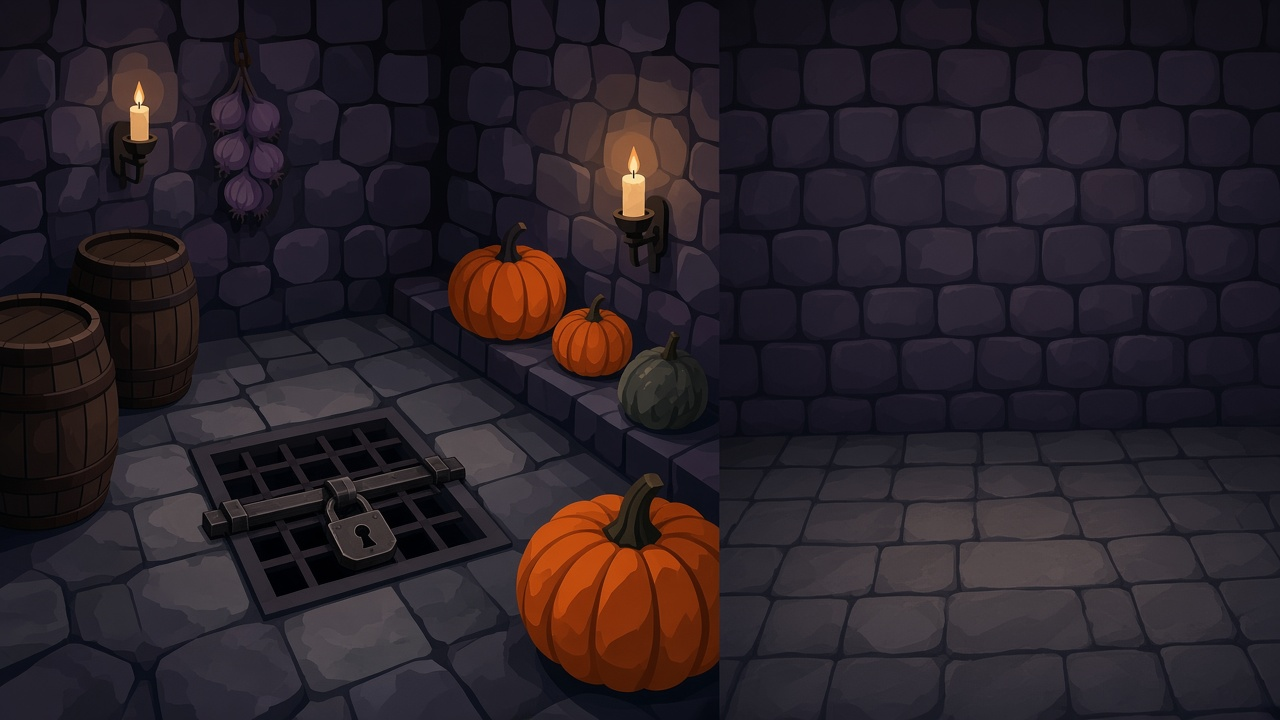
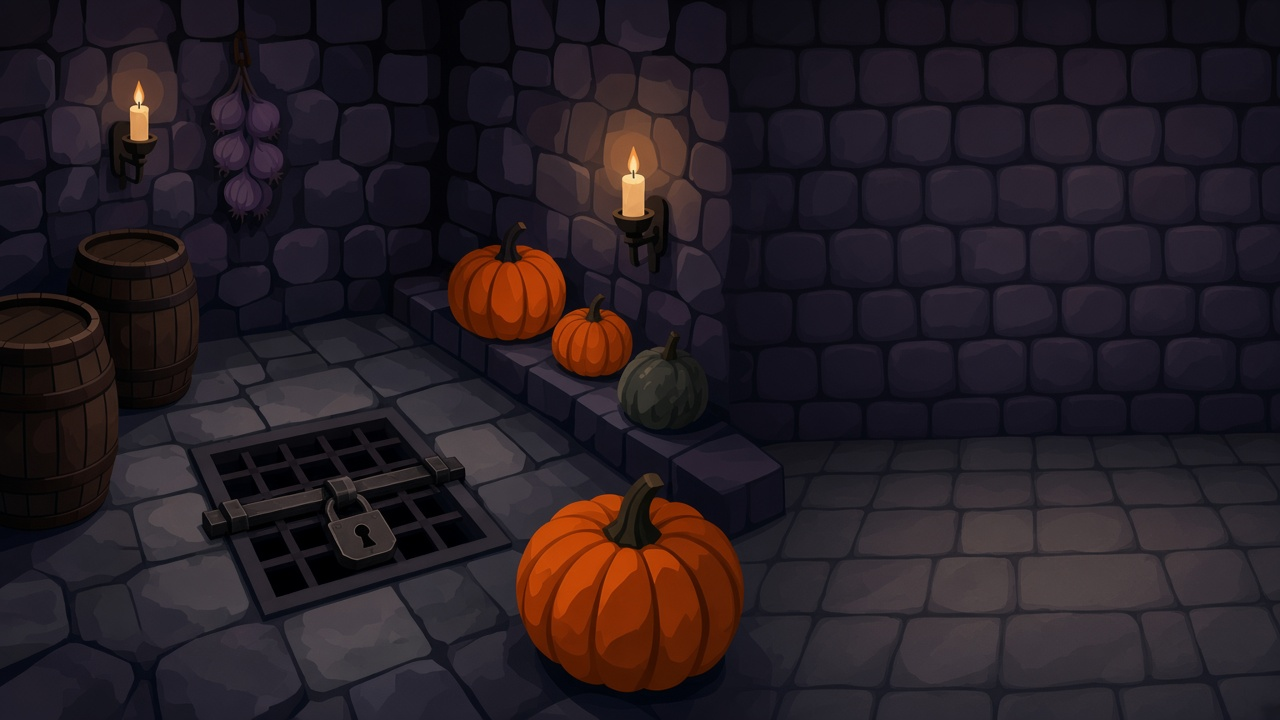
Replace unlock still in place instead of stacking a second image.

diff --git a/assets/room.js b/assets/room.js
@@ -99,13 +99,14 @@
     const btn = panel.querySelector("[data-unlock-btn]");
     const continueWrap = panel.querySelector(".continue-wrap");
     const celebrate = document.querySelector("[data-celebrate]");
+    const sceneBg = document.querySelector(".scene-bg");
 
     function showCelebrate(on) {
-      if (!celebrate) return;
-      const vid = celebrate.querySelector("video");
+      const vid = celebrate && celebrate.querySelector("video");
+      const img = celebrate && celebrate.querySelector("img");
       if (on) {
-        celebrate.removeAttribute("hidden");
-        if (vid) {
+        if (vid && celebrate) {
+          celebrate.removeAttribute("hidden");
           const reduce = window.matchMedia("(prefers-reduced-motion: reduce)").matches;
           if (reduce) {
             vid.pause();
@@ -114,12 +115,22 @@
             vid.currentTime = 0;
             vid.play().catch(() => {});
           }
+        } else if (sceneBg && img) {
+          sceneBg.style.backgroundImage = `url("${img.getAttribute("src")}")`;
+          if (celebrate) celebrate.setAttribute("hidden", "");
+        } else if (celebrate) {
+          celebrate.removeAttribute("hidden");
         }
       } else {
-        celebrate.setAttribute("hidden", "");
-        if (vid) {
-          vid.pause();
-          vid.currentTime = 0;
+        if (sceneBg && sceneBg.dataset.lockedSrc) {
+          sceneBg.style.backgroundImage = `url("${sceneBg.dataset.lockedSrc}")`;
+        }
+        if (celebrate) {
+          celebrate.setAttribute("hidden", "");
+          if (vid) {
+            vid.pause();
+            vid.currentTime = 0;
+          }
         }
       }
     }
@@ -178,14 +189,20 @@
       if (win) win.hidden = false;
       burstConfetti();
       const media = root.querySelector("[data-final-media]");
-      if (media) media.removeAttribute("hidden");
-      const vid = root.querySelector("video");
-      if (vid) {
+      const sceneBg = root.querySelector(".scene-bg");
+      const vid = media && media.querySelector("video");
+      const img = media && media.querySelector("img");
+      if (vid && media) {
+        media.removeAttribute("hidden");
         const reduce = window.matchMedia("(prefers-reduced-motion: reduce)").matches;
         if (!reduce) {
           vid.currentTime = 0;
           vid.play().catch(() => {});
         }
+      } else if (sceneBg && img) {
+        sceneBg.style.backgroundImage = `url("${img.getAttribute("src")}")`;
+      } else if (media) {
+        media.removeAttribute("hidden");
       }
     } else if (gate) {
       gate.hidden = false;

diff --git a/room1/unlock.html b/room1/unlock.html
@@ -8,7 +8,7 @@
 </head>
 <body class="scene-overlay">
 
-<div class="scene-bg" style="background-image:url('../assets/unlock-locked-cellar.png')"><figure class="celebrate-scene" hidden data-celebrate><img src="../assets/unlock-cellar.png" alt="" width="1024" height="1024" loading="lazy"></figure></div>
+<div class="scene-bg" style="background-image:url('../assets/unlock-locked-cellar.png')" data-locked-src="../assets/unlock-locked-cellar.png"><figure class="celebrate-scene" hidden data-celebrate><img src="../assets/unlock-cellar.png" alt="" width="1024" height="1024" loading="lazy"></figure></div>
 <aside class="scene-pane">
 
   

diff --git a/room2/unlock.html b/room2/unlock.html
@@ -8,7 +8,7 @@
 </head>
 <body class="scene-overlay">
 
-<div class="scene-bg" style="background-image:url('../assets/unlock-locked-hall.png')"><figure class="celebrate-scene" hidden data-celebrate><img src="../assets/unlock-hall.png" alt="" width="1024" height="1024" loading="lazy"></figure></div>
+<div class="scene-bg" style="background-image:url('../assets/unlock-locked-hall.png')" data-locked-src="../assets/unlock-locked-hall.png"><figure class="celebrate-scene" hidden data-celebrate><img src="../assets/unlock-hall.png" alt="" width="1024" height="1024" loading="lazy"></figure></div>
 <aside class="scene-pane">
 
   

diff --git a/room3/unlock.html b/room3/unlock.html
@@ -8,7 +8,7 @@
 </head>
 <body class="scene-overlay">
 
-<div class="scene-bg" style="background-image:url('../assets/unlock-locked-gate.png')"><figure class="celebrate-scene" hidden data-celebrate><img src="../assets/celebration.png" alt="" width="1024" height="1024" loading="lazy"></figure></div>
+<div class="scene-bg" style="background-image:url('../assets/unlock-locked-gate.png')" data-locked-src="../assets/unlock-locked-gate.png"><figure class="celebrate-scene" hidden data-celebrate><img src="../assets/celebration.png" alt="" width="1024" height="1024" loading="lazy"></figure></div>
 <aside class="scene-pane">
 
   

diff --git a/final.html b/final.html
@@ -8,7 +8,7 @@
 </head>
 <body class="scene-overlay">
 <div class="final-beat" data-final data-rooms='[1, 2, 3]'>
-<div class="scene-bg" style="background-image:url('assets/unlock-locked-gate.png')"><figure class="final-scene" hidden data-final-media><img src="assets/final.png" alt="" loading="eager"></figure></div>
+<div class="scene-bg" style="background-image:url('assets/unlock-locked-gate.png')" data-locked-src="assets/unlock-locked-gate.png"><figure class="final-scene" hidden data-final-media><img src="assets/final.png" alt="" loading="eager"></figure></div>
 <aside class="scene-pane">
 
   <h1>You escaped!</h1>

diff --git a/index.html b/index.html
@@ -8,7 +8,7 @@
 </head>
 <body class="scene-overlay">
 
-<div class="scene-bg" style="background-image:url('assets/hero_square.png')"></div>
+<div class="scene-bg" style="background-image:url('assets/hero_square.png')" data-locked-src="assets/hero_square.png"></div>
 <aside class="scene-pane">
 
   <div class="badge"> Escape Room</div>

diff --git a/room1/index.html b/room1/index.html
@@ -8,7 +8,7 @@
 </head>
 <body class="scene-overlay">
 
-<div class="scene-bg" style="background-image:url('../assets/rooms/room1.png')"></div>
+<div class="scene-bg" style="background-image:url('../assets/rooms/room1.png')" data-locked-src="../assets/rooms/room1.png"></div>
 <aside class="scene-pane">
 
   

diff --git a/room2/index.html b/room2/index.html
@@ -8,7 +8,7 @@
 </head>
 <body class="scene-overlay">
 
-<div class="scene-bg" style="background-image:url('../assets/rooms/room2.png')"></div>
+<div class="scene-bg" style="background-image:url('../assets/rooms/room2.png')" data-locked-src="../assets/rooms/room2.png"></div>
 <aside class="scene-pane">
 
   

diff --git a/room3/index.html b/room3/index.html
@@ -8,7 +8,7 @@
 </head>
 <body class="scene-overlay">
 
-<div class="scene-bg" style="background-image:url('../assets/rooms/room3.png')"></div>
+<div class="scene-bg" style="background-image:url('../assets/rooms/room3.png')" data-locked-src="../assets/rooms/room3.png"></div>
 <aside class="scene-pane">
 
   

diff --git a/assets/styles.css b/assets/styles.css
@@ -335,6 +335,7 @@ body.scene-overlay .scene-bg .final-scene {
   margin: 0;
   width: 100%;
   height: 100%;
+  max-width: none;
   max-height: none;
   border-radius: 0;
   background: #111;
